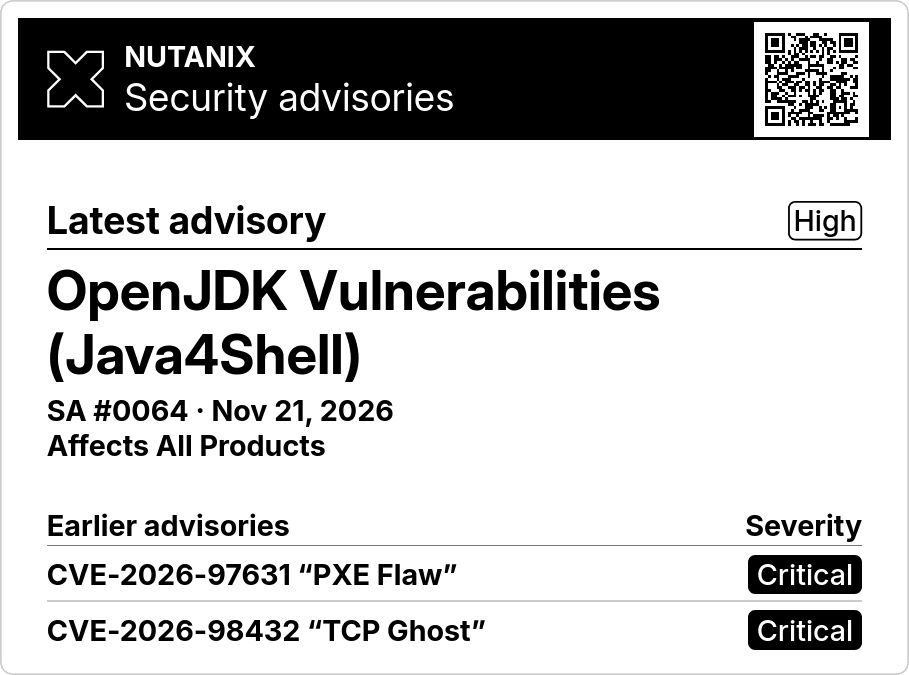
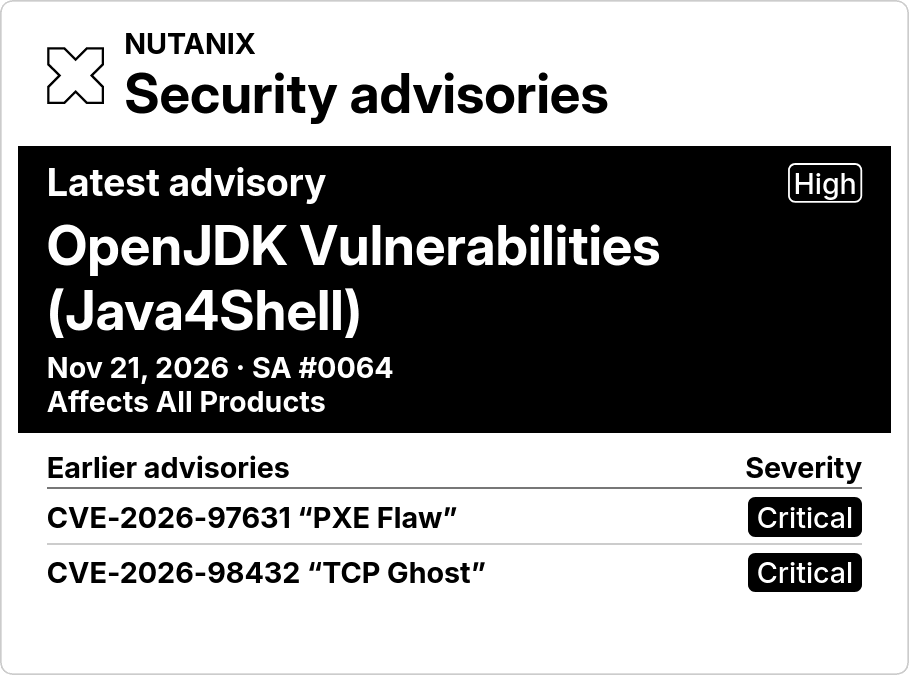
feat: redesign the nutanix security layout

diff --git a/TRMNL/tests/layout_spec.rb b/TRMNL/tests/layout_spec.rb
@@ -61,7 +61,7 @@ RSpec.describe 'Nutanix Security layouts' do
           expect(screen.all('[data-ns-lead]').size).to eq(count.positive? ? 1 : 0)
           expect(screen).to have_no_css('.title_bar')
           expect(screen).to have_no_css('.layout a')
-          expect(screen).to have_css('[data-ns-mast] svg.qr-code', count: 1)
+          expect(screen.has_css?('[data-ns-mast] svg.qr-code')).to eq(view == 'full' && device_name.start_with?('x'))
           expect(screen).to have_no_css('.layout [data-table-limit], .layout [data-clamp]')
           expect(screen.result.requests.size).to eq(1)
           expect(screen).to have_css('[data-ns-lead] [data-ns-subject]', text: label) if count.positive?
@@ -127,9 +127,8 @@ RSpec.describe 'Nutanix Security layouts' do
           expect(geometry['rows']).to eq([remaining, row_limits.fetch(device_name)[view_index]].min)
           expect(geometry['renderedRows']).to eq([remaining, row_limits.fetch('x')[view_index]].min)
           if count > 1 && view == 'full' && %w[og x].include?(device_name)
-            expect(geometry['beside']).to eq(device_name == 'x')
-            columns = device_name == 'x' ? (mode == 'nxvd' ? 4 : 3) : 2
-            expect(geometry['columns']).to eq(columns)
+            expect(geometry['beside']).to be(false)
+            expect(geometry['columns']).to eq(device_name == 'x' ? 4 : 3)
           end
 
           FileUtils.mkdir_p('_build/previews')
@@ -185,7 +184,7 @@ RSpec.describe 'Nutanix Security layouts' do
                             mocks: { mocks.keys.first => failure }, state: live.state)
       expect(screen).to have_no_transform_error
       expect(screen).to have_text('Saved 2026-11-20')
-      expect(screen).to have_css('[data-ns-mast] svg.qr-code', count: 1)
+      expect(screen).to have_no_css('[data-ns-mast] svg.qr-code')
       expect(screen).to have_css('[data-ns-lead] [data-ns-subject]', text: label)
       expect(screen.result.data.fetch('source_error')).to eq(reason)
       expect(screen.result.state).to eq(live.state)

diff --git a/TRMNL/README.md b/TRMNL/README.md
@@ -34,9 +34,9 @@ Recorded on November 21, 2026 using public Nutanix data.
 
 [Shared Liquid](src/shared.liquid) renders both briefs. Advisories leads with the latest publication by default. **Highest criticality first** ranks advisories by severity and shows newer publications first within each severity. NXVD leads with the first released fix on the CVSS-ranked page and shows its product, package and fixed release when available.
 
-Scan the QR code in the header to open the selected table on Nutanix's support portal. NXVD opens with your selected product. The portal uses its own sort order.
+The full TRMNL X view has a small QR code in the header. It opens the selected table on Nutanix's support portal. NXVD opens with your selected product. The portal uses its own sort order.
 
-The full OG view stacks the lead and table. The full landscape X view uses a separate lead panel beside a wider table with dedicated publication dates or product and fixed-release columns. Portrait views stack the content. The OG quadrant shows one featured item, and the X quadrant also fits a short table. [TRMNL X layout guide](https://trmnl.com/framework/docs/3.4/trmnl_x_guide)
+The lead item sits in a dark panel above the table. Full landscape views give publication dates or products their own column, and X adds advisory numbers or fixed releases. The landscape horizontal split puts the lead beside the table. The OG quadrant shows one featured item, and the X quadrant also fits a short table. [TRMNL X layout guide](https://trmnl.com/framework/docs/3.4/trmnl_x_guide)
 
 The templates cap the number of rows before rendering. Framework 3.4.6 handles typography, table sizing, and responsive visibility. Text clips in place as the browser lays out the page. The landscape limits below include the featured item.
 
